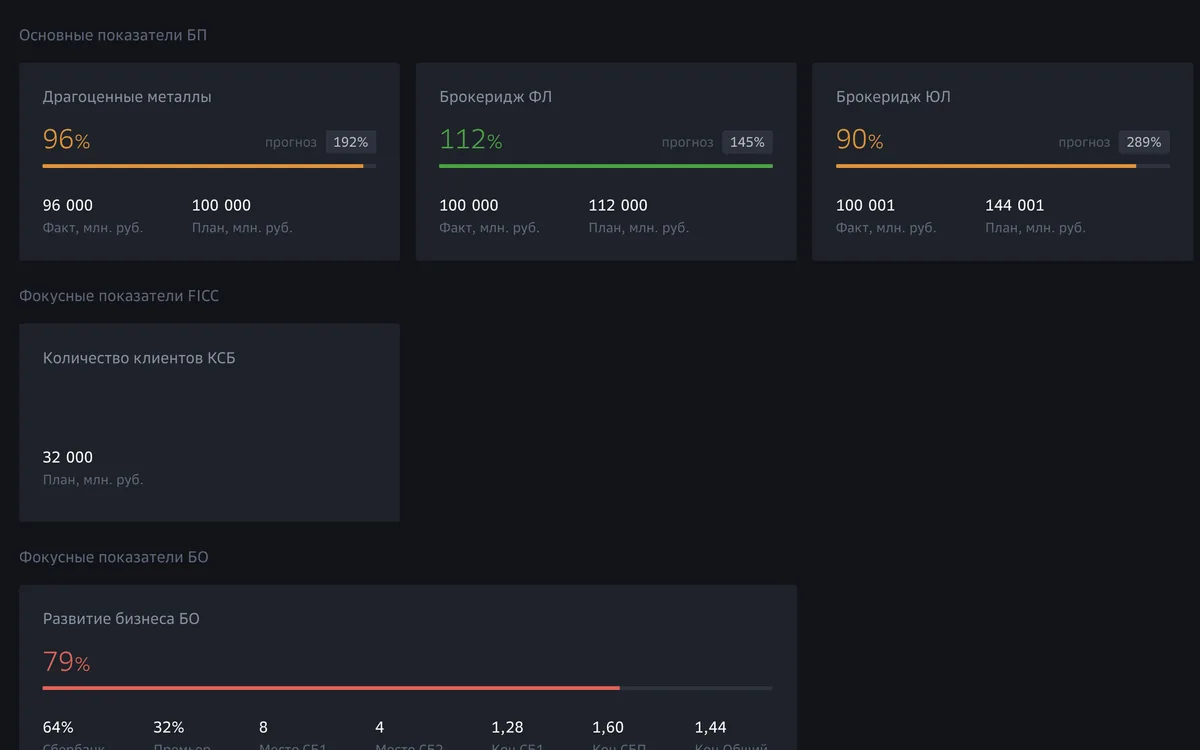
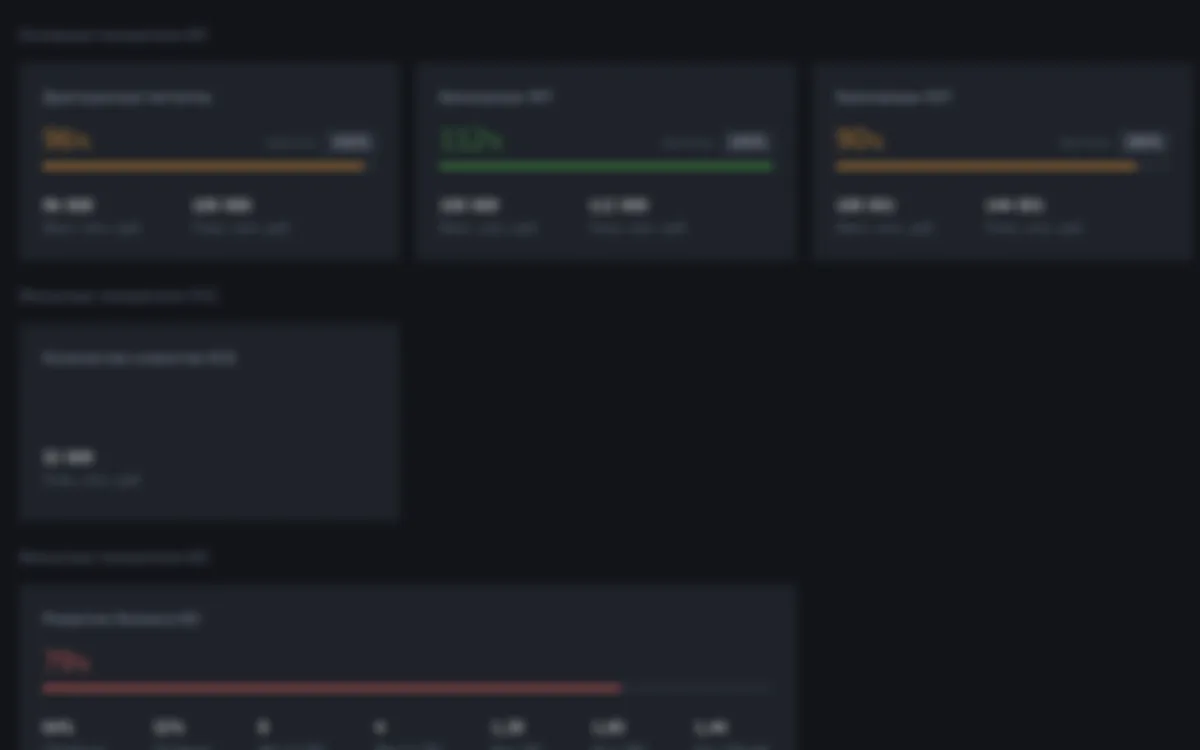
add AI tools to skills, blur Sber screenshots, trim README

diff --git a/src/blocks/Skills/index.tsx b/src/blocks/Skills/index.tsx
@@ -1,19 +1,26 @@
-import {skillGroups} from '../../data/profile';
+import {aiTools, SkillGroup, skillGroups} from '../../data/profile';
 import Section from '../../components/Section';
 import Reveal from '../../components/Reveal';
 import Tag from '../../components/Tag';
 
+const Group = ({title, items}: SkillGroup) => (
+    <div>
+        <h3 className="font-mono text-sm tracking-wider text-brand-violet uppercase dark:text-brand-cyan">{title}</h3>
+        <div className="mt-4 flex flex-wrap gap-2">
+            {items.map((item) => <Tag key={item} size="lg">{item}</Tag>)}
+        </div>
+    </div>
+);
+
 const Skills = () => (
     <Section id="skills" eyebrow="01. skills" title={<>Tech <span className="text-gradient">stack</span></>}>
-        <Reveal className="glow-card grid gap-8 rounded-2xl p-6 sm:grid-cols-2 md:p-8 lg:grid-cols-4">
-            {skillGroups.map(({title, items}) => (
-                <div key={title}>
-                    <h3 className="font-mono text-sm tracking-wider text-brand-violet uppercase dark:text-brand-cyan">{title}</h3>
-                    <div className="mt-4 flex flex-wrap gap-2">
-                        {items.map((item) => <Tag key={item} size="lg">{item}</Tag>)}
-                    </div>
-                </div>
-            ))}
+        <Reveal className="glow-card rounded-2xl p-6 md:p-8">
+            <div className="grid gap-8 sm:grid-cols-2 lg:grid-cols-4">
+                {skillGroups.map((group) => <Group key={group.title} {...group}/>)}
+            </div>
+            <div className="mt-6 border-t border-neutral-200/70 pt-5 dark:border-white/10">
+                <Group {...aiTools}/>
+            </div>
         </Reveal>
     </Section>
 );

diff --git a/src/data/profile.ts b/src/data/profile.ts
@@ -44,6 +44,11 @@ export const skillGroups: SkillGroup[] = [
     {title: 'Testing & Data', items: ['Jest', 'React Testing Library', 'IndexedDB', 'Node.js']},
 ];
 
+export const aiTools: SkillGroup = {
+    title: 'AI tools',
+    items: ['Claude Code', 'AI-assisted coding'],
+};
+
 export interface Job {
     company: string;
     role: string;
